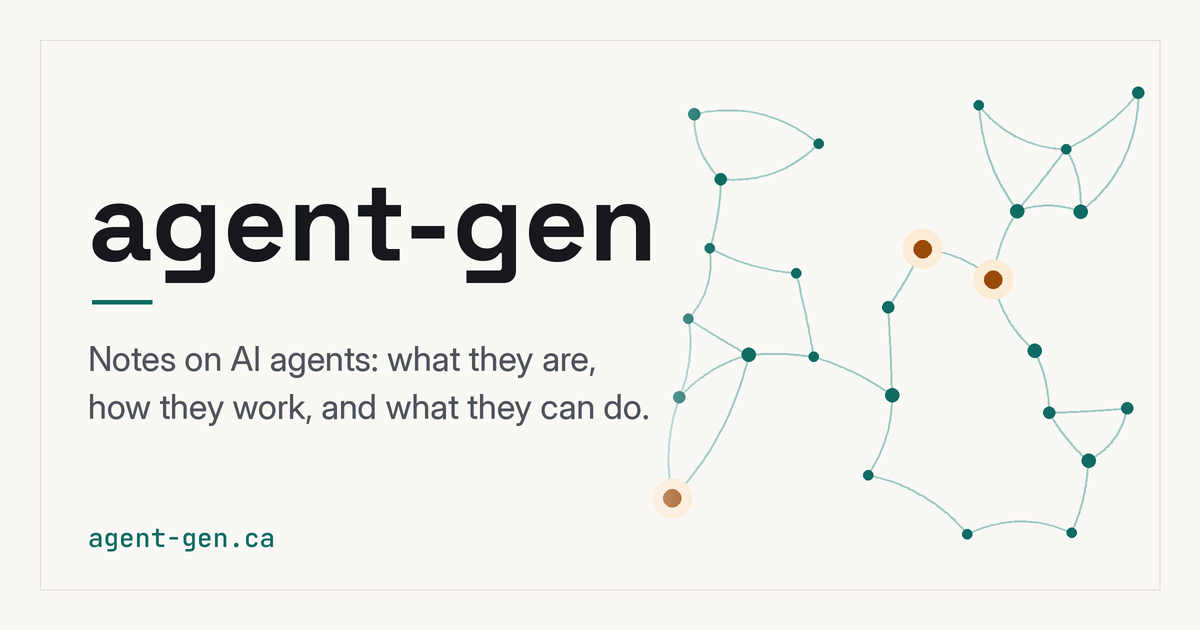
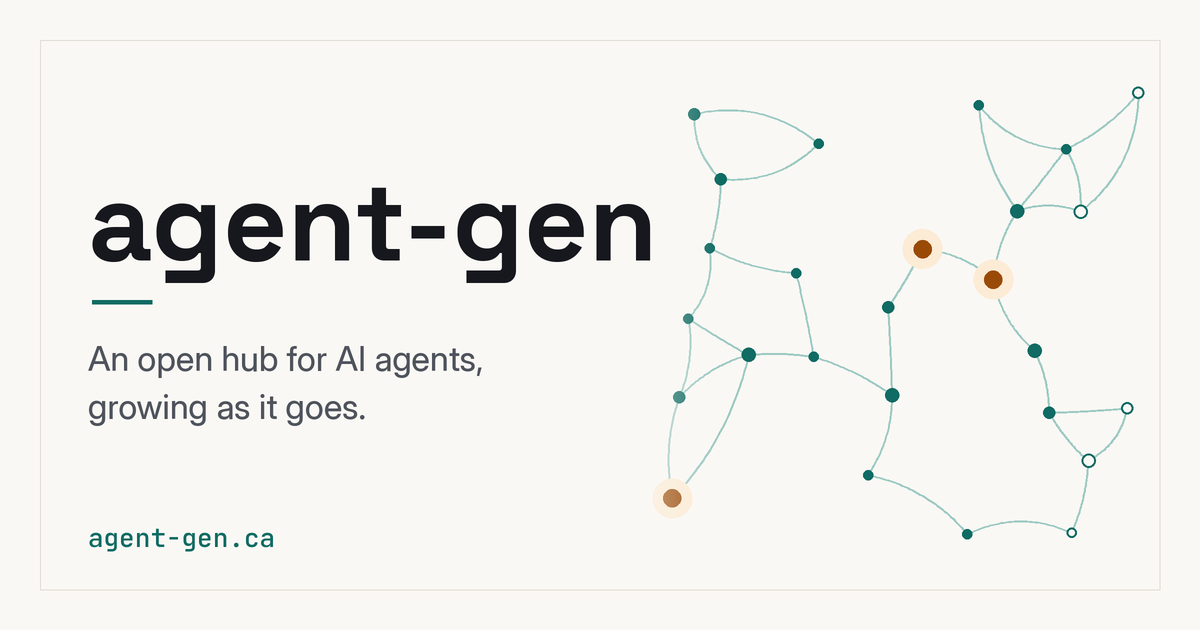
feat: Blog labels, Sanity-sourced index and 404 copy, new OG alt
R2A-10, S5, S8, S11 and the e7100294 OG card. User-facing labels read Blog; /notes/ routes stay. R12 env fallbacks were already removed in a2b2bc1.

diff --git a/src/entry-server.tsx b/src/entry-server.tsx
@@ -7,7 +7,7 @@ import {Post} from './pages/Post'
 import {About} from './pages/About'
 import {NotFound} from './pages/NotFound'
 import {site, type SiteEnv} from './site.config'
-import {clean, noteUrl} from './lib/content'
+import {clean, noteUrl, blogIndex} from './lib/content'
 
 export interface PageOut { path: string; file: string; html: string; head: string; graph: boolean; code: boolean; inSitemap: boolean; lastmod?: string }
 
@@ -62,6 +62,11 @@ export function buildPages(content: any, env: SiteEnv): {pages: PageOut[]; lang:
   const website = {'@type': 'WebSite', '@id': `${site.productionUrl}/#website`, url: `${site.productionUrl}/`, name: siteName, description: clean(settings.description), inLanguage: lang}
   const crumbs = (items: [string, string][]) => ({'@type': 'BreadcrumbList', itemListElement: items.map(([name, p], i) => ({'@type': 'ListItem', position: i + 1, name, item: site.productionUrl + p}))})
 
+  const index = blogIndex(content)
+  const indexTitle = index.title
+  const indexDesc = index.metaDescription || 'The agent-gen blog.'
+  const indexMetaTitle = index.metaTitle || `${indexTitle} · ${siteName}`
+
   const pages: PageOut[] = []
   const hs = home.seo || def
   pages.push({
@@ -72,10 +77,10 @@ export function buildPages(content: any, env: SiteEnv): {pages: PageOut[]; lang:
   })
 
   pages.push({
-    path: '/notes/', file: 'notes/index.html', graph: false, code: false, inSitemap: true,
+    path: '/notes/', file: 'notes/index.html', graph: false, code: false, inSitemap: true, lastmod: lastmodOf(content.notesPage),
     html: wrap('/notes/', <NotesIndex content={content} />),
-    head: head({...base, path: '/notes/', title: `Notes · ${siteName}`, description: 'Short posts on how AI agents work and what we learn while building them.',
-      jsonLd: {'@context': 'https://schema.org', '@graph': [{'@type': 'CollectionPage', name: 'Notes', url: `${site.productionUrl}/notes/`, isPartOf: {'@id': `${site.productionUrl}/#website`}}, crumbs([['Home', '/'], ['Notes', '/notes/']])]}}),
+    head: head({...base, path: '/notes/', title: indexMetaTitle, description: indexDesc,
+      jsonLd: {'@context': 'https://schema.org', '@graph': [{'@type': 'CollectionPage', name: indexTitle, url: `${site.productionUrl}/notes/`, isPartOf: {'@id': `${site.productionUrl}/#website`}}, crumbs([['Home', '/'], [indexTitle, '/notes/']])]}}),
   })
 
   posts.forEach((p: any, i: number) => {
@@ -88,9 +93,9 @@ export function buildPages(content: any, env: SiteEnv): {pages: PageOut[]; lang:
     if (clean(p.authorName)) posting.author = {'@type': 'Organization', name: p.authorName}
     pages.push({
       path, file: `notes/${p.slug}/index.html`, graph: false, code: hasCode, inSitemap: true, lastmod: lastmodOf(p),
-      html: wrap(path, <Post post={p} prev={posts[i + 1]} next={posts[i - 1]} />),
+      html: wrap(path, <Post post={p} prev={posts[i + 1]} next={posts[i - 1]} content={content} />),
       head: head({...base, path, title: s.metaTitle || p.title, description: s.metaDescription || p.summary, ogTitle: s.ogTitle, ogDescription: s.ogDescription, ogType: 'article', noIndex: s.noIndex,
-        jsonLd: {'@context': 'https://schema.org', '@graph': [posting, crumbs([['Home', '/'], ['Notes', '/notes/'], [p.title, path]])]}}),
+        jsonLd: {'@context': 'https://schema.org', '@graph': [posting, crumbs([['Home', '/'], [indexTitle, '/notes/'], [p.title, path]])]}}),
     })
   })
 
@@ -106,7 +111,7 @@ export function buildPages(content: any, env: SiteEnv): {pages: PageOut[]; lang:
 
   pages.push({
     path: '/404', file: '404.html', graph: false, code: false, inSitemap: false,
-    html: wrap('/404', <NotFound />),
+    html: wrap('/404', <NotFound content={content} />),
     head: head({...base, path: '/404', title: `Page not found · ${siteName}`, description: 'This page could not be found.', noIndex: true, includeUrl: false}),
   })
   return {pages, lang}

diff --git a/src/pages/Home.tsx b/src/pages/Home.tsx
@@ -59,9 +59,8 @@ function Purpose({section, index, owner}: {section: any; index: number; owner?: 
   )
 }
 
-function Coming({section, notice, settings, owner}: {section: any; notice: any; settings: any; owner?: {label: string; href: string}}) {
+function Coming({section, owner}: {section: any; owner?: {label: string; href: string}}) {
   const cards = (section.cards || []).filter((c: any) => clean(c.title) && clean(c.description))
-  const gh = notice?.showCodeLink ? githubOrgUrl(settings) : undefined
   return (
     <section className="band coming" id={section.anchor} aria-labelledby={`${section.anchor}-h`}>
       <div className="container">
@@ -82,13 +81,22 @@ function Coming({section, notice, settings, owner}: {section: any; notice: any; 
           ))}
         </ul>
         {clean(section.statusNote) && <p className="coming__note">{section.statusNote}</p>}
-        {notice?.enabled !== false && clean(notice?.heading) && clean(notice?.body) && (
-          <aside className="notice" aria-labelledby="notice-h">
-            <h3 id="notice-h">{notice.heading}</h3>
-            <p>{notice.body}</p>
-            {gh && <p><a href={gh} rel="noopener">View the code</a></p>}
-          </aside>
-        )}
+      </div>
+    </section>
+  )
+}
+
+function CodeNotice({notice, settings}: {notice: any; settings: any}) {
+  if (notice?.enabled === false || !clean(notice?.heading) || !clean(notice?.body)) return null
+  const gh = notice?.showCodeLink ? githubOrgUrl(settings) : undefined
+  return (
+    <section className="band" aria-labelledby="notice-h">
+      <div className="container">
+        <aside className="notice" aria-labelledby="notice-h">
+          <h3 id="notice-h">{notice.heading}</h3>
+          <p>{notice.body}</p>
+          {gh && <p><a href={gh} rel="noopener">View the code</a></p>}
+        </aside>
       </div>
     </section>
   )
@@ -101,15 +109,15 @@ function Latest({cfg, posts}: {cfg: any; posts: any[]}) {
     <section className="band latest" aria-labelledby="latest-h">
       <div className="container">
         <div className="band__head band__head--row">
-          <h2 id="latest-h">{clean(cfg?.heading) || 'Latest notes'}</h2>
-          {list.length > 0 && <a className="arrow-link" href="/notes/">{clean(cfg?.allLabel) || 'All notes'}<span aria-hidden="true"> →</span></a>}
+          <h2 id="latest-h">{clean(cfg?.heading) || 'Latest posts'}</h2>
+          {list.length > 0 && <a className="arrow-link" href="/notes/">{clean(cfg?.allLabel) || 'All posts'}<span aria-hidden="true"> →</span></a>}
         </div>
         {list.length ? (
           <ul className="cards" role="list">
             {list.map((p) => <li key={p.slug}><PostCard post={p} headingLevel={3} /></li>)}
           </ul>
         ) : (
-          <p>{clean(cfg?.emptyText) || 'The first notes are on the way.'}</p>
+          <p>{clean(cfg?.emptyText) || 'Nothing here yet.'}</p>
         )}
       </div>
     </section>
@@ -123,7 +131,8 @@ export function Home({content}: {content: any}) {
     <>
       <Hero hero={home.hero} />
       {(home.purposeSections || []).map((s: any, i: number) => <Purpose key={s._key} section={s} index={i} owner={owner} />)}
-      {home.contentSection && <Coming section={home.contentSection} notice={home.comingSoonNotice} settings={settings} owner={owner} />}
+      {home.contentSection && <Coming section={home.contentSection} owner={owner} />}
+      <CodeNotice notice={home.comingSoonNotice} settings={settings} />
       <Latest cfg={home.latestNotes} posts={posts} />
     </>
   )

diff --git a/src/pages/Post.tsx b/src/pages/Post.tsx
@@ -1,8 +1,10 @@
 import {PortableText} from '../components/PortableText'
-import {clean, noteUrl} from '../lib/content'
+import {clean, noteUrl, blogIndex} from '../lib/content'
 import {Tags, formatDate} from './shared'
 
-export function Post({post, prev, next}: {post: any; prev?: any; next?: any}) {
+export function Post({post, prev, next, content}: {post: any; prev?: any; next?: any; content?: any}) {
+  const collection = blogIndex(content)
+  const allLabel = clean(content?.home?.latestNotes?.allLabel) || 'All posts'
   const date = formatDate(post.publishedAt)
   const updated = formatDate(post.updatedAt)
   const author = clean(post.authorName)
@@ -11,7 +13,7 @@ export function Post({post, prev, next}: {post: any; prev?: any; next?: any}) {
       <nav aria-label="Breadcrumb" className="breadcrumb">
         <ol>
           <li><a href="/">Home</a></li>
-          <li><a href="/notes/">Notes</a></li>
+          <li><a href="/notes/">{collection.title}</a></li>
           <li><a href={noteUrl(post.slug)} aria-current="page">{post.title}</a></li>
         </ol>
       </nav>
@@ -32,12 +34,12 @@ export function Post({post, prev, next}: {post: any; prev?: any; next?: any}) {
           <PortableText value={post.body} />
         </div>
       </article>
-      <nav aria-label="More notes" className="prevnext">
+      <nav aria-label="More posts" className="prevnext">
         <ul role="list">
-          <li>{prev && <a href={noteUrl(prev.slug)} rel="prev"><span className="prevnext__dir">Previous note</span><span className="prevnext__title">{prev.title}</span></a>}</li>
-          <li>{next && <a href={noteUrl(next.slug)} rel="next"><span className="prevnext__dir">Next note</span><span className="prevnext__title">{next.title}</span></a>}</li>
+          <li>{prev && <a href={noteUrl(prev.slug)} rel="prev"><span className="prevnext__dir">Previous post</span><span className="prevnext__title">{prev.title}</span></a>}</li>
+          <li>{next && <a href={noteUrl(next.slug)} rel="next"><span className="prevnext__dir">Next post</span><span className="prevnext__title">{next.title}</span></a>}</li>
         </ul>
-        <p className="prevnext__home"><a href="/notes/">All notes</a> · <a href="/">Home</a></p>
+        <p className="prevnext__home"><a href="/notes/">{allLabel}</a> · <a href="/">Home</a></p>
       </nav>
     </div>
   )

diff --git a/src/components/Layout.tsx b/src/components/Layout.tsx
@@ -13,6 +13,24 @@ const MoonIcon = () => (
   </svg>
 )
 
+
+/** Link licence names in the footer line. Handles "Text: CC BY 4.0" and the earlier "Text: CC BY 4.0 · Code: MIT". */
+function LicenceNote({text}: {text: string}) {
+  const CC = 'https://creativecommons.org/licenses/by/4.0/'
+  const MIT = 'https://opensource.org/license/mit'
+  const parts = text.split(/(CC BY 4\.0|MIT)/g)
+  if (parts.length === 1) return <>{text}</>
+  return (
+    <>
+      {parts.map((part, i) => {
+        if (part === 'CC BY 4.0') return <a key={i} href={CC} rel="license noopener">CC BY 4.0</a>
+        if (part === 'MIT') return <a key={i} href={MIT} rel="license noopener">MIT</a>
+        return part || null
+      })}
+    </>
+  )
+}
+
 export function Header({settings, path}: {settings: any; path: string}) {
   const nav = (settings.mainNav || []).filter((l: any) => clean(l.label) && safeHref(l.href))
   return (
@@ -55,16 +73,7 @@ export function Footer({settings, year}: {settings: any; year: number}) {
       <div className="container site-footer__inner">
         <div className="site-footer__meta">
           {clean(f.tagline) && <p className="site-footer__tagline">{f.tagline}</p>}
-          {licence && (
-            <p>
-              {licence === 'Text: CC BY 4.0 · Code: MIT' ? (
-                <>
-                  Text: <a href="https://creativecommons.org/licenses/by/4.0/" rel="license noopener">CC BY 4.0</a> · Code:{' '}
-                  <a href="https://opensource.org/license/mit" rel="license noopener">MIT</a>
-                </>
-              ) : licence}
-            </p>
-          )}
+          {licence && <p><LicenceNote text={licence} /></p>}
           {clean(f.locationNote) && <p>{f.locationNote}</p>}
           {copyright && <p>© {year} {copyright}</p>}
         </div>

diff --git a/src/lib/content.ts b/src/lib/content.ts
@@ -49,3 +49,28 @@ export function ownerAttribution(about?: any): {label: string; href: string} | u
 
 export const isOwnerVoice = (voice?: string | null) => voice === 'owner'
 
+/** User-facing name for the /notes/ collection. Routes and field names stay "notes". */
+export const BLOG_LABEL = 'Blog'
+
+/** Blog index title, lede and meta from Sanity when Content provides them. */
+export function blogIndex(content?: any): {title: string; lede?: string; metaTitle?: string; metaDescription?: string} {
+  const idx = content?.notesPage || content?.settings?.blogIndex || content?.blogIndex
+  const title = clean(idx?.title) || BLOG_LABEL
+  const fromBody = Array.isArray(idx?.body)
+    ? clean((idx.body as any[]).map(blockText).join(' ').replace(/\s+/g, ' '))
+    : undefined
+  const lede = clean(idx?.lede) || clean(idx?.intro) || fromBody
+  const metaTitle = clean(idx?.seo?.metaTitle) || clean(idx?.metaTitle)
+  const metaDescription = clean(idx?.seo?.metaDescription) || clean(idx?.metaDescription) || lede
+  return {title, lede, metaTitle, metaDescription}
+}
+
+/** 404 heading, lede and home-button label from Sanity, with neutral fallbacks. */
+export function notFoundCopy(content?: any): {heading: string; lede: string; homeLabel: string} {
+  const n = content?.settings?.notFound || content?.notFound
+  return {
+    heading: clean(n?.heading) || 'This page isn’t here',
+    lede: clean(n?.lede) || 'The link may be old or mistyped.',
+    homeLabel: clean(n?.homeLabel) || 'Go to the home page',
+  }
+}

diff --git a/src/pages/Notes.tsx b/src/pages/Notes.tsx
@@ -1,19 +1,21 @@
 import {PostCard} from './shared'
+import {blogIndex, clean} from '../lib/content'
 
 export function NotesIndex({content}: {content: any}) {
   const posts = content.posts
+  const index = blogIndex(content)
   return (
     <div className="container page">
       <header className="page__head">
-        <h1>Notes</h1>
-        <p className="lede">Short posts on how agents work and what we learn while building them.</p>
+        <h1>{index.title}</h1>
+        {index.lede && <p className="lede">{index.lede}</p>}
       </header>
       {posts.length ? (
         <ul className="note-list" role="list">
           {posts.map((p: any) => <li key={p.slug}><PostCard post={p} headingLevel={2} /></li>)}
         </ul>
       ) : (
-        <p>{content.home?.latestNotes?.emptyText || 'The first notes are on the way.'}</p>
+        <p>{clean(content.home?.latestNotes?.emptyText) || 'Nothing here yet.'}</p>
       )}
     </div>
   )

diff --git a/src/pages/NotFound.tsx b/src/pages/NotFound.tsx
@@ -1,12 +1,14 @@
-export function NotFound() {
+import {notFoundCopy} from '../lib/content'
+
+export function NotFound({content}: {content?: any}) {
+  const copy = notFoundCopy(content)
   return (
     <div className="container page page--center">
       <p className="eyebrow">404</p>
-      <h1>This page isn’t here</h1>
-      <p className="lede">The link may be old, or the page hasn’t been written yet.</p>
+      <h1>{copy.heading}</h1>
+      <p className="lede">{copy.lede}</p>
       <p className="hero__actions">
-        <a className="button button--primary" href="/">Go to the home page</a>
-        <a className="button button--ghost" href="/notes/">Read the notes</a>
+        <a className="button button--primary" href="/">{copy.homeLabel}</a>
       </p>
     </div>
   )

diff --git a/src/site.config.ts b/src/site.config.ts
@@ -21,7 +21,7 @@ export const site = {
     width: 1200,
     height: 630,
     type: 'image/png',
-    alt: 'agent-gen wordmark beside a network of teal and amber nodes, with the line: Notes on AI agents.',
+    alt: 'agent-gen wordmark beside a network of teal and amber nodes, some still open, with the line: An open hub for AI agents, growing as it goes.',
   },
   sanity: {
     projectId: 'jqsksqmz',
